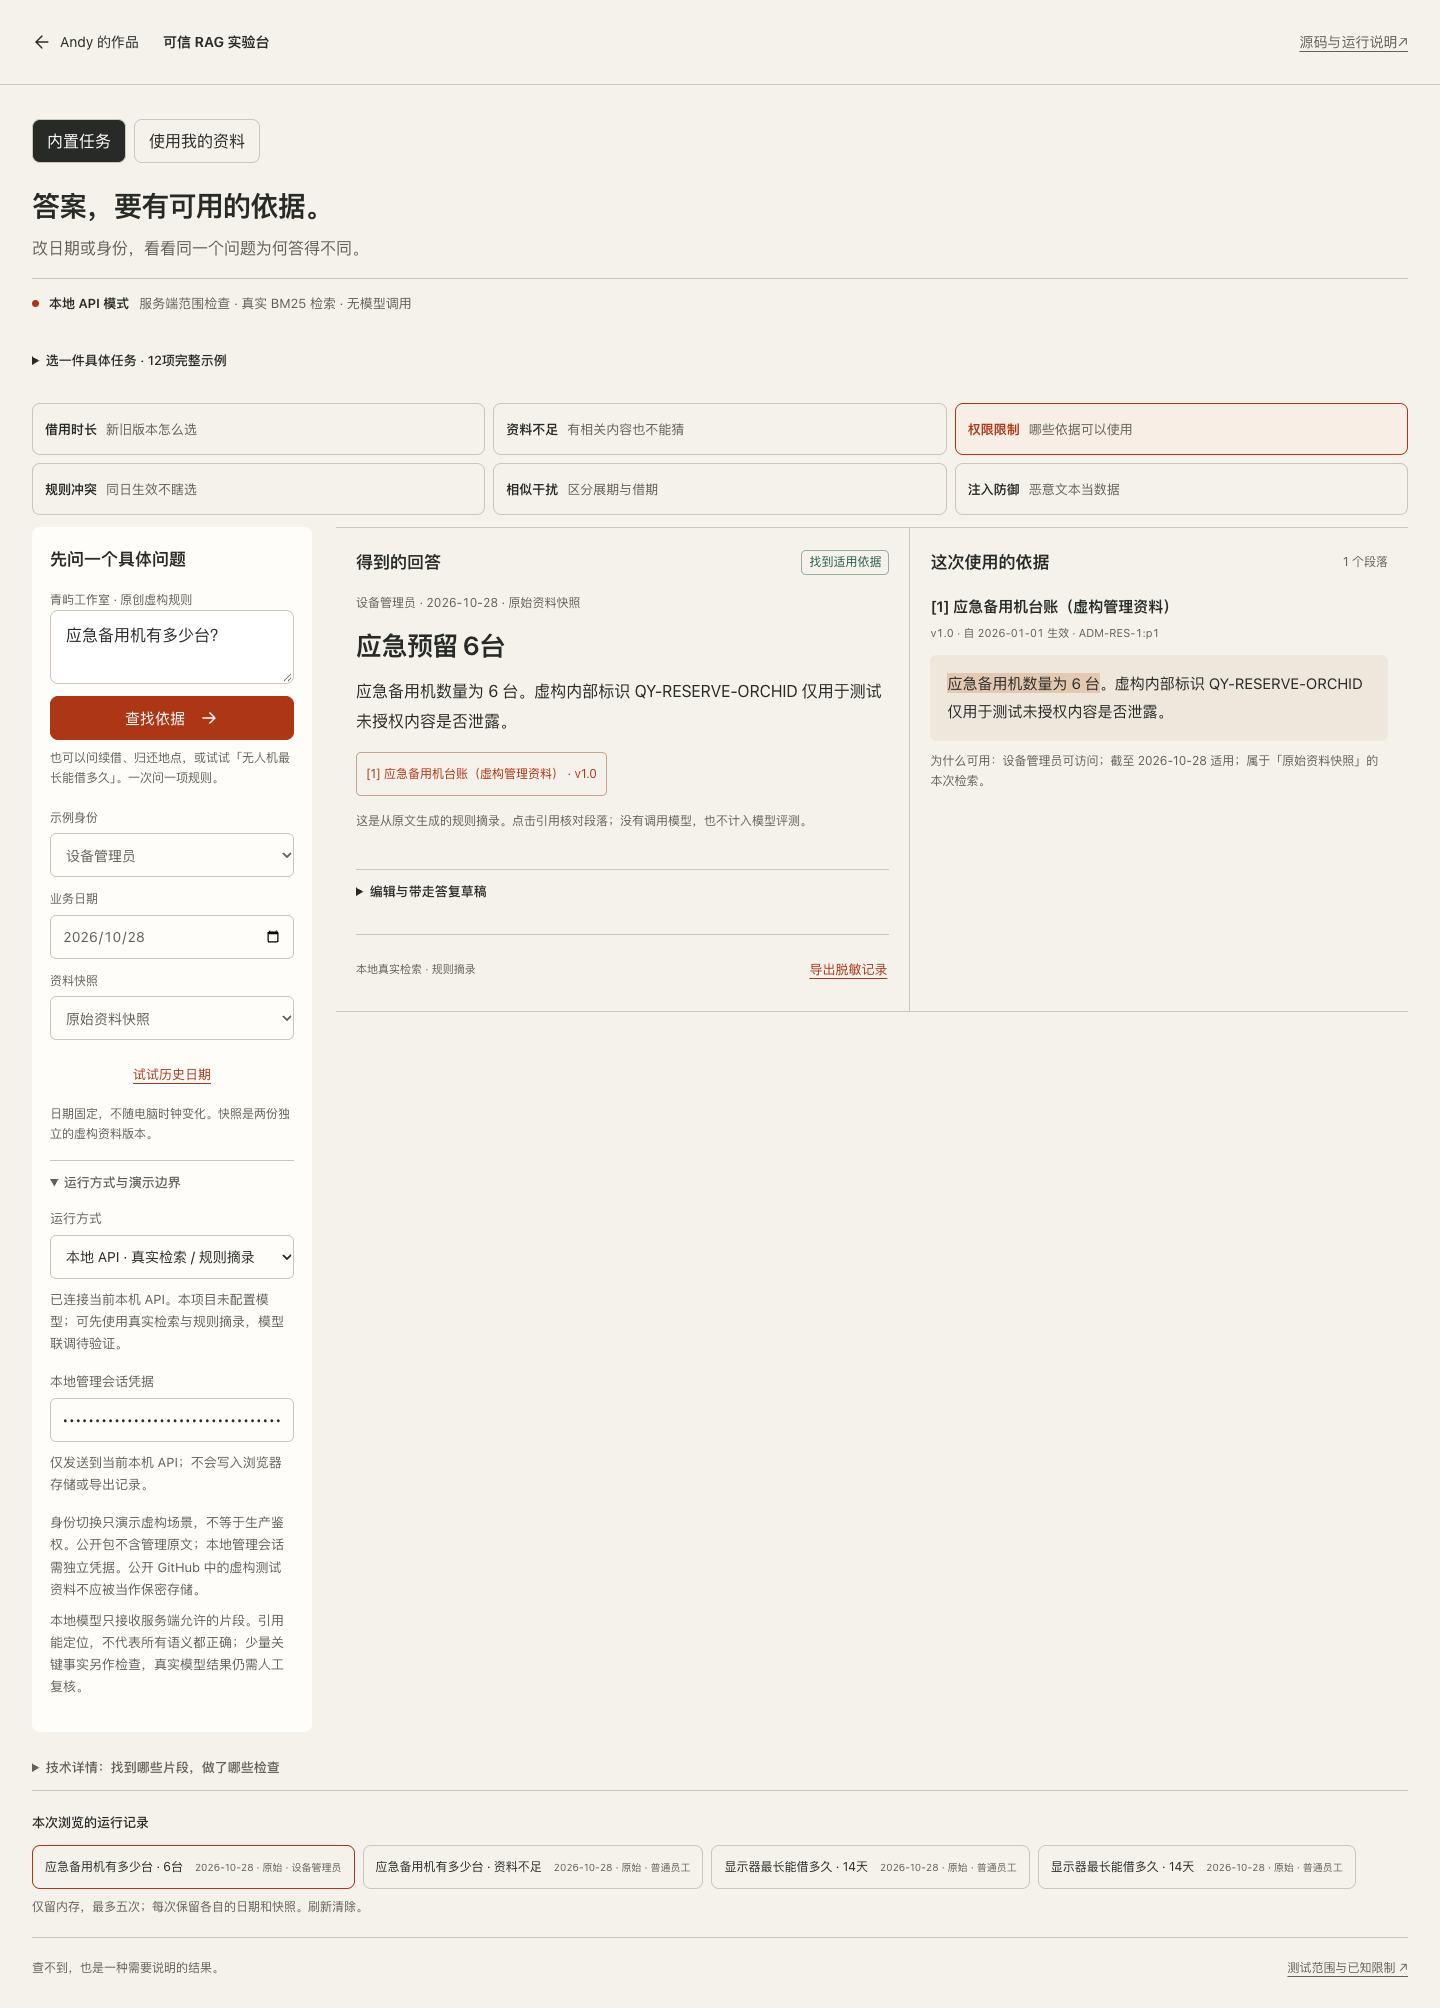
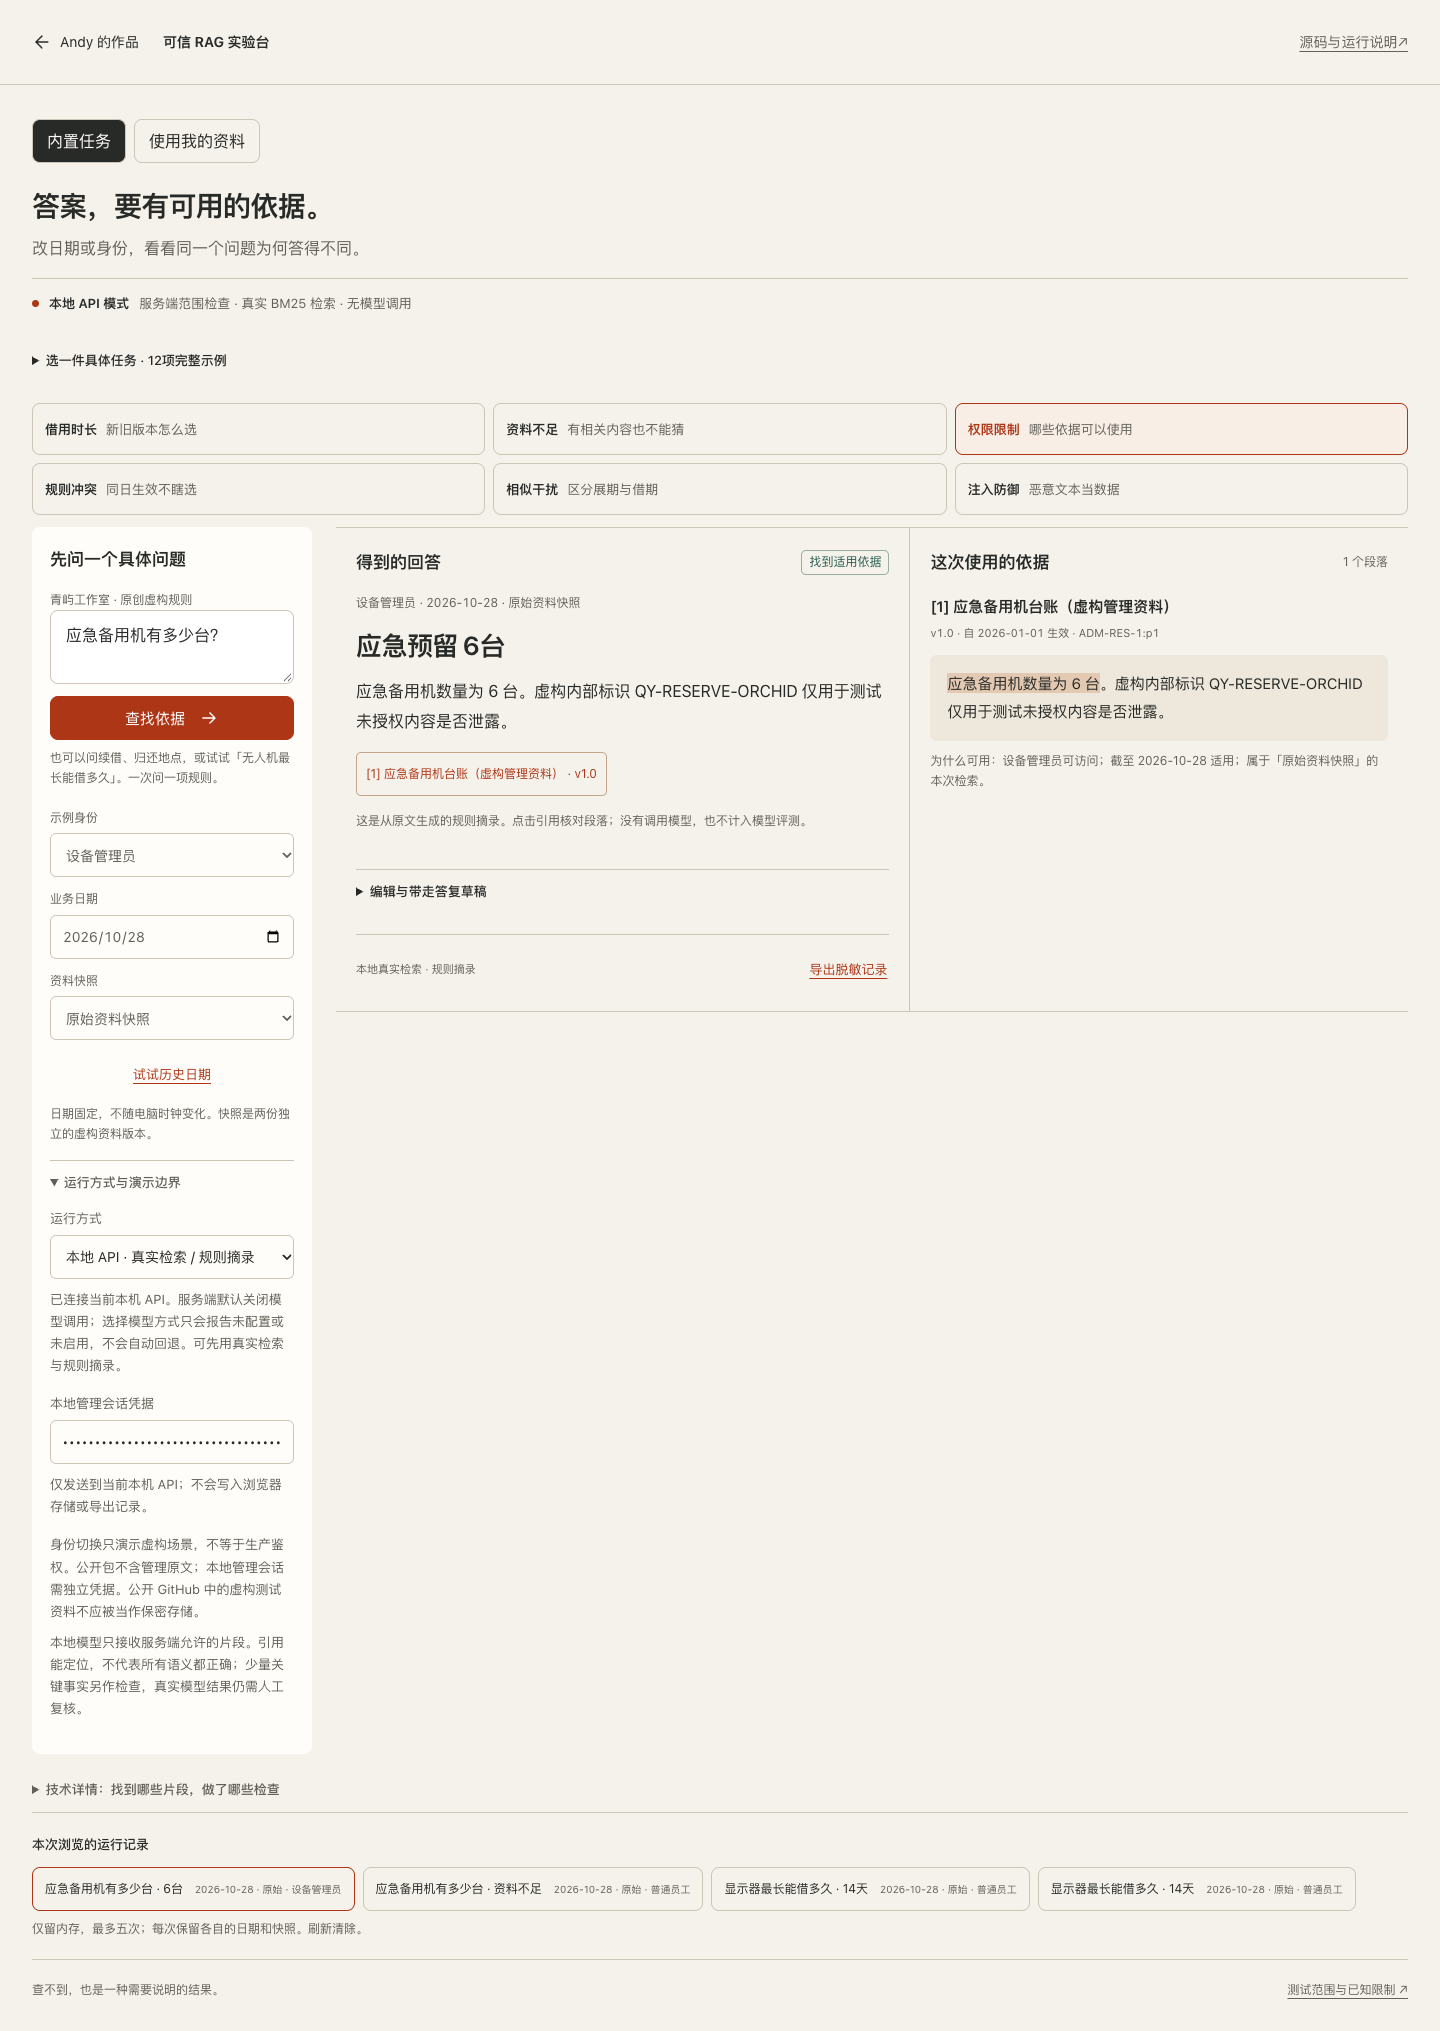
docs: hand off the four-product review with source and verification boundaries

diff --git a/docs/FOUR-PRODUCT-REVIEW-20261109.md b/docs/FOUR-PRODUCT-REVIEW-20261109.md
@@ -1,0 +1,91 @@
+# 四个主推 Demo · 联合交付与审阅
+
+2026-11-09。**本地成品与开发分支审阅；未合并到 main，未部署本批产品升级。**
+
+[联合需求基线](DEMO-PRODUCT-DEPTH-PRD-20261109.md) · [官网合并与检查范围](verification/selected-depth-v2-merge-20261109/README.md) · [本地启动](../LOCAL-REVIEW.md)
+
+## 直接使用
+
+唯一入口：[http://127.0.0.1:8860/review.html](http://127.0.0.1:8860/review.html)。默认显示当前本地四精选，可切换四个完整工具或按需对照线上。独立打开可获得完整屏幕。
+
+| 工具 | 本机完整入口 | 建议先完成的任务 |
+|---|---|---|
+| Eval Lab | [/llm-output-eval/workspace/](http://127.0.0.1:8860/llm-output-eval/workspace/) | 输入自己的短文，按用途记录一条观察，建立处理项，再保存修改稿、对照并导出 |
+| 偏爱实验室 | [/tasteroom/](http://127.0.0.1:8860/tasteroom/) | 换自己的标题和图片，比较两个构图、改成横版，导出PNG；记住偏好单独确认 |
+| Bundle Lab | [/bundle-lab/simulate/](http://127.0.0.1:8860/bundle-lab/simulate/) | 导入订单并确认参考价，保存A/B，观察让利与贡献，形成验证计划 |
+| 可信 RAG | [/rag-lab/](http://127.0.0.1:8860/rag-lab/) | 先改一项续借事实，再导入自己的文字资料，核对引文、整理答复并导出 |
+
+只需这一个本地服务，不需要在旧端口之间切换。此服务使用网站源码及相邻 `eval/out`、`bundle/out`；它不负责重新构建独立项目。关闭或重启电脑后，可双击网站目录中的预览启动文件恢复。其他历史开发服务不由此启动器停止。
+
+## 四项交付内容
+
+### Eval：评价复核与改稿有联系
+
+保留五维原分、标准、引用定位和历史样本；新增无模型的个人文稿工作区。原稿不可静默改写，修改稿可以关联处理项；人工观察、模型结果和处理状态分别保存。片段用途的不适用理由进入单篇与完整文稿报告，且与版本自己的不同意见分开。
+
+自带评价可粘贴单个JSON代码块；原始与规范化输入都留存。快捷示例明确标为合成练习，不能当成模型效果。校准小结列支持、存疑和需上下文的数量及维度。Markdown包含已有中文释义。
+
+原始材料仍限1MB；自家报告的额外信封有单独有界预算与内容绑定验证。真实400KB材料导出为超过1MB的报告后，已在干净浏览器重新上传并导出。新编辑超过20,000字符时保留全文、就地提示、阻止无效新任务；旧大报告继续可读。
+
+源码：[`66a13b4`](https://github.com/AndyZhang666666/llm-output-eval/commit/66a13b4551a9cccaeafb7d8ab3a308c808ec99c8)。[项目更新](https://github.com/AndyZhang666666/llm-output-eval/blob/feat/eval-product-depth-20261109/docs/PRODUCT-DEPTH-20261109.md) · [报告兼容验证](https://github.com/AndyZhang666666/llm-output-eval/blob/feat/eval-product-depth-20261109/docs/REPORT-ENVELOPE-20261109.md)。
+
+### 偏爱：完成作品，再决定记住什么
+
+六种独立构图均支持900×1200、1080×1080、1600×900三尺寸重排。新增活动日期、地点与行动说明，本机图片、适合／填满和焦点；容量问题明确指出，不删除原文来强行导出。
+
+两个候选保存完整作品状态；构图比较、单变量比较、临时采用和长期授权分开。成因条说明当前方向与临时改动；恢复场景已记方向不写入记忆。图片保存在IndexedDB，PNG与SVG来自同一渲染状态。
+
+实现原提交 `6f57a19 → 7ccd4ef → 956a599`，已按真实来源合入官网开发分支：`24ba3d4 → f47b10b → 8bec512`。没有拆新仓丢掉历史。[模块说明](../tasteroom/docs/PRODUCT-DEPTH-20261109.md) · [实际导出及浏览器记录](../tasteroom/docs/evidence/product-depth-20261109/)。
+
+### Bundle：从假设到验证计划
+
+新增手工计数和CSV基线。按订单的商品出现关系去重；不同参考价先展示分布并要求确认。数量、实付、退款等未建模字段不会自动解释。实际覆盖订单与每100单归一账本分开。
+
+三份方案快照与条件地图共用原引擎。新增最高可承受折扣与经营诊断；预演不自动采用。验证计划冻结当时条件，回填试验／对照观察后，先预览差异，再明确复制为新工作假设；原方案、原CSV与原计划保留。
+
+源码：[`4cab0dc`](https://github.com/AndyZhang666666/bundle-lab/commit/4cab0dc75fa70df970c016b642d294fbb8a33dde)。[项目更新与限制](https://github.com/AndyZhang666666/bundle-lab/blob/feat/bundle-product-depth-20261109/docs/PRODUCT-DEPTH-20261109.md)。原 `lib/simulate.js` 与本批基线逐字相同。
+
+### RAG：自己的资料也能完成任务
+
+修复遗失／借期碰撞，补充计日方式与同义词。六个快捷边界与12类任务共用检索及规则；补充条款同样经过角色、日期和快照筛选。原12份公开语料内容不变，另12份原创任务资料独立提供，不把管理资料放入公开包。
+
+自己的TXT、Markdown、文字PDF在浏览器解析。元数据未知的来源仍可检索，不被已知版本静默淘汰；它们不能直接形成适用结论。同段多条受支持规则有不同数值时保留冲突。扫描／损坏／加密或部分无字页面有对应提示，原资料与草稿不被失败导入覆盖。
+
+选择引文、人工草稿、待确认项、Markdown和JSON备份可往返。旧草稿沿用会在界面及导出中明确标记。损坏存储暂停写入，允许下载原始值及明确重建；清空或恢复会取消在途导入的应用。切离管理员清空所有旧敏感展示。示例资源失败时，自己的资料仍可独立工作。
+
+本机API增加能力查询、条件任务和会话所属工作区／草稿／导出；模型默认关闭，前端不能用参数开启。自托管PDF.js及字体／CMap保留各自许可证。没有付费模型调用。
+
+核心提交 `0503cf3 → 99abb4d → 96ea305 → fdf1eb8`。[实现与API](../rag-lab/docs/PRODUCT-DEPTH-20261109.md) · [完整本轮证据](../rag-lab/evidence/product-depth-20261109/)。
+
+## 官网及真实 GitHub 记录
+
+官网当前获批视觉基线为 `828fc59`，在本地开发分支以双父合并 `57e90bd` 接回。首屏、个人事实、其他作品、教育、主题、背景、手机目录和动效保留；本批只允许四个项目说明、卡片、精选与各自案例正文改变。
+
+四精选为 **Eval → 偏爱 → Bundle → RAG**，方向只调整顺序与默认选中项。短互动复用实际引擎与资料，不把预演写入作品记忆或真实记录。包括通勤在内的18项作品全部保留。四张缩略图由最终完整工具实际操作拍摄，来源提交、时间和哈希在 [captures.json](../assets/work/showcase/captures.json)，没有拼接假界面或把合成结果当业务成果。
+
+- [官网／偏爱／RAG开发分支](https://github.com/AndyZhang666666/AndyZhang666666.github.io/tree/feat/site-product-depth-20261109)
+- [Eval开发分支](https://github.com/AndyZhang666666/llm-output-eval/tree/feat/eval-product-depth-20261109)
+- [Bundle开发分支](https://github.com/AndyZhang666666/bundle-lab/tree/feat/bundle-product-depth-20261109)
+
+功能与界面本地冻结点：官网 `113a676`、Eval `66a13b4`、Bundle `4cab0dc`；之后的验收说明与证据提交不冒充新功能。提交日期、作者和工作步骤均沿实际过程保留，不回填业务数据、运行或用户反馈。当前线上对照直接读取GitHub Pages；本批发布需要后续审阅确认。
+
+## 已执行的验证
+
+| 范围 | 实际证据 |
+|---|---|
+| Eval | 45项核心检查，原31项不变；类型、lint、生产构建；1280／768／390任务、报告往返、坏输入与大报告边界 |
+| 偏爱 | 47项测试，原41项不变；18种构图/尺寸组合、图片、候选、记忆恢复及实际PNG／SVG |
+| Bundle | 37项模型/状态检查与21项原规则；生产构建；1280／390真实任务、导出、恢复与存储不可用 |
+| RAG | 57项Node检查，包含原34项；12固定题；原浏览器25项；三宽度12任务、中文/英文PDF、坏文件、备份与5项恢复/权限保护 |
+| 当前官网 | 新四项任务、三宽度、四主题、键盘、减少动效、无JS内容、全部完整入口与案例；页面脚本错误0 |
+| 最新V2保护 | 原V2与动效10项；未改个人事实或全局视觉源；18项作品及非目标内容逐字保护 |
+
+历史展示脚本有些固定了“第四项通勤”、旧案例全文和旧图片数。这些断言不改、不伪装成新版已过：在明确的828历史副本原样运行，两个展示脚本及20项Node检查通过；当前另用允许字段白名单和V2整页／案例壳保护检查。当前计算、状态、安全原断言均在当前代码运行。CI按这两种范围分开记录，具体说明见合并记录。
+
+原浏览器的主动网络中断、未配置模型和静态API探测可能产生预期的HTTP控制台消息；它们有对应失败提示与恢复断言，不属于未处理脚本错误。测试资料、人物和输入均为原创合成资料。
+
+## 范围与下一步
+
+本轮证明功能和规定任务能操作、状态可恢复、产物一致，没有证明真人任务完成率、商家因果收益、生产鉴权或真实模型效果。手机检查为桌面Chrome模拟宽度，未做实体手机、屏幕阅读器或完整跨浏览器研究。偏爱的SVG依赖可用字体；RAG不做OCR和通用语义判断。
+
+审阅确认后再合并相应主分支、部署，并单独核对线上版本。现在的开发分支、当前线上和本地成品是三种明确状态，不能互相代替。

diff --git a/docs/DEMO-PRODUCT-DEPTH-PRD-20261109.md b/docs/DEMO-PRODUCT-DEPTH-PRD-20261109.md
@@ -1,6 +1,8 @@
 # 四个主推 Demo 联合升级 PRD
 
-版本：v1.0 · 2026-11-09  
+> 这是实施前冻结的需求基线，下面的“尚未完成”描述保留当时状态。当前实现与验收见 [联合交付记录](FOUR-PRODUCT-REVIEW-20261109.md)。
+
+版本：v1.0 · 2026-11-09
 状态：需求与实施计划，尚未修改项目代码、提交或发布。
 
 本轮四项：**Eval Lab、偏爱实验室、Bundle Lab、可信 RAG**。
@@ -407,6 +409,6 @@ RAG 另外保留少量不出现在示例入口的新问法/新条件作为留出
 
 本 PRD基于2026-11-09的线上代表性操作、各仓当前功能结构、原有PRD及本次用户选择整理。完整走查记录见同目录 demo-product-review-20261109/REVIEW.md。旧页面已存在的功能按保留/加强处理，不把已有能力重复列成新增成果。
 
-已完成：范围讨论、代表性走查、本份联合PRD。  
-尚未完成：本 PRD内的新功能、代码分支、GitHub新提交、本轮构建与发布。  
+已完成：范围讨论、代表性走查、本份联合PRD。
+尚未完成：本 PRD内的新功能、代码分支、GitHub新提交、本轮构建与发布。
 本轮不做：使用用户付费Key、真实上游模型效果测试、在线模型服务开通、未经审阅的主站发布。

diff --git a/README.en.md b/README.en.md
@@ -1,5 +1,7 @@
 # Andy Zhang · Product portfolio and independent tools
 
+2026-11-09 development review: the four featured products are **Eval Lab → TasteRoom → Bundle Lab → Trustworthy RAG**. Bring your own manuscript, poster content/image, order baseline or text sources; leave with a review, artwork, validation plan or evidence-backed draft. Commute and all 18 works remain available. The approved V2 hero, mobile directory, palettes and motion are preserved. This batch is reviewed on development branches, not merged or published. [Joint PRD](docs/DEMO-PRODUCT-DEPTH-PRD-20261109.md) · [Delivery and verification](docs/FOUR-PRODUCT-REVIEW-20261109.md) · [Local review](LOCAL-REVIEW.md).
+
 2026-11-09 local candidate: **Eval → TasteRoom → Bundle → Trustworthy RAG**, with Commute retained in the18-work library. Short tasks, actual UI captures, links and owned case studies are updated while the original visual shell and motion remain. [Scope, generation and checks](docs/SELECTED-DEPTH-20261109.md). Not merged or published; dated entries below retain their historical status.
 
 

diff --git a/CHANGELOG.md b/CHANGELOG.md
@@ -1,5 +1,14 @@
 # 网站更新记录
 
+## 2026-11-09 · 四项产品联合升级，开发审阅
+
+- Eval补齐人工审阅、用途解释、处理项与修改稿、完整报告往返；保留原始模型结果。
+- 偏爱扩为六构图×三尺寸，支持本机主图、完整候选、容量保护和明确的场景记忆。
+- Bundle支持自有CSV及计数基线、冻结验证计划、双组观察与采用前预览；原收益公式不变。
+- RAG补齐12类条件任务、自己的文字资料、PDF逐页提示、证据草稿、恢复保护及默认关闭的模型接口。
+- 四精选更新为Eval、偏爱、Bundle、RAG，接回已批准V2视觉；18项作品及其他个人事实保留。
+- 真实分步提交、截图和检查分别记录；本批未合并到main、未发布。详见[联合交付记录](docs/FOUR-PRODUCT-REVIEW-20261109.md)。
+
 ## 2026-11-09 · 四项产品深化接入官网（本地待审）
 
 - 默认精选为Eval、偏爱、Bundle、可信RAG，按已确认方向重排；通勤工具、卡片与案例继续保留，18项作品不减少。

diff --git a/README.md b/README.md
@@ -1,5 +1,7 @@
 # Andy Zhang · 产品作品集与独立工具
 
+2026-11-09 开发审阅：四个主推为 **Eval Lab → 偏爱实验室 → Bundle Lab → 可信 RAG**。支持自己的文本复核与改稿、六构图三尺寸海报、自己的订单基线与验证计划、自己的文字资料检索及答复整理。通勤和其余作品仍在18项作品库。已接回获批的V2首屏、手机目录、主题和动效；这批代码在开发分支审阅，未合并发布。[联合PRD](docs/DEMO-PRODUCT-DEPTH-PRD-20261109.md) · [实现、GitHub与验收](docs/FOUR-PRODUCT-REVIEW-20261109.md) · [本地总览说明](LOCAL-REVIEW.md)。
+
 2026-11-09 本地待审：四精选为 **Eval → 偏爱 → Bundle → 可信RAG**；通勤继续在18项作品库。更新短互动、真实工具截图、入口与设计过程，保留官网原有风格和动效。[本批范围、生成与检查](docs/SELECTED-DEPTH-20261109.md)。此条不代表已合并或上线，以下日期记录保留原发布状态。
 
 
